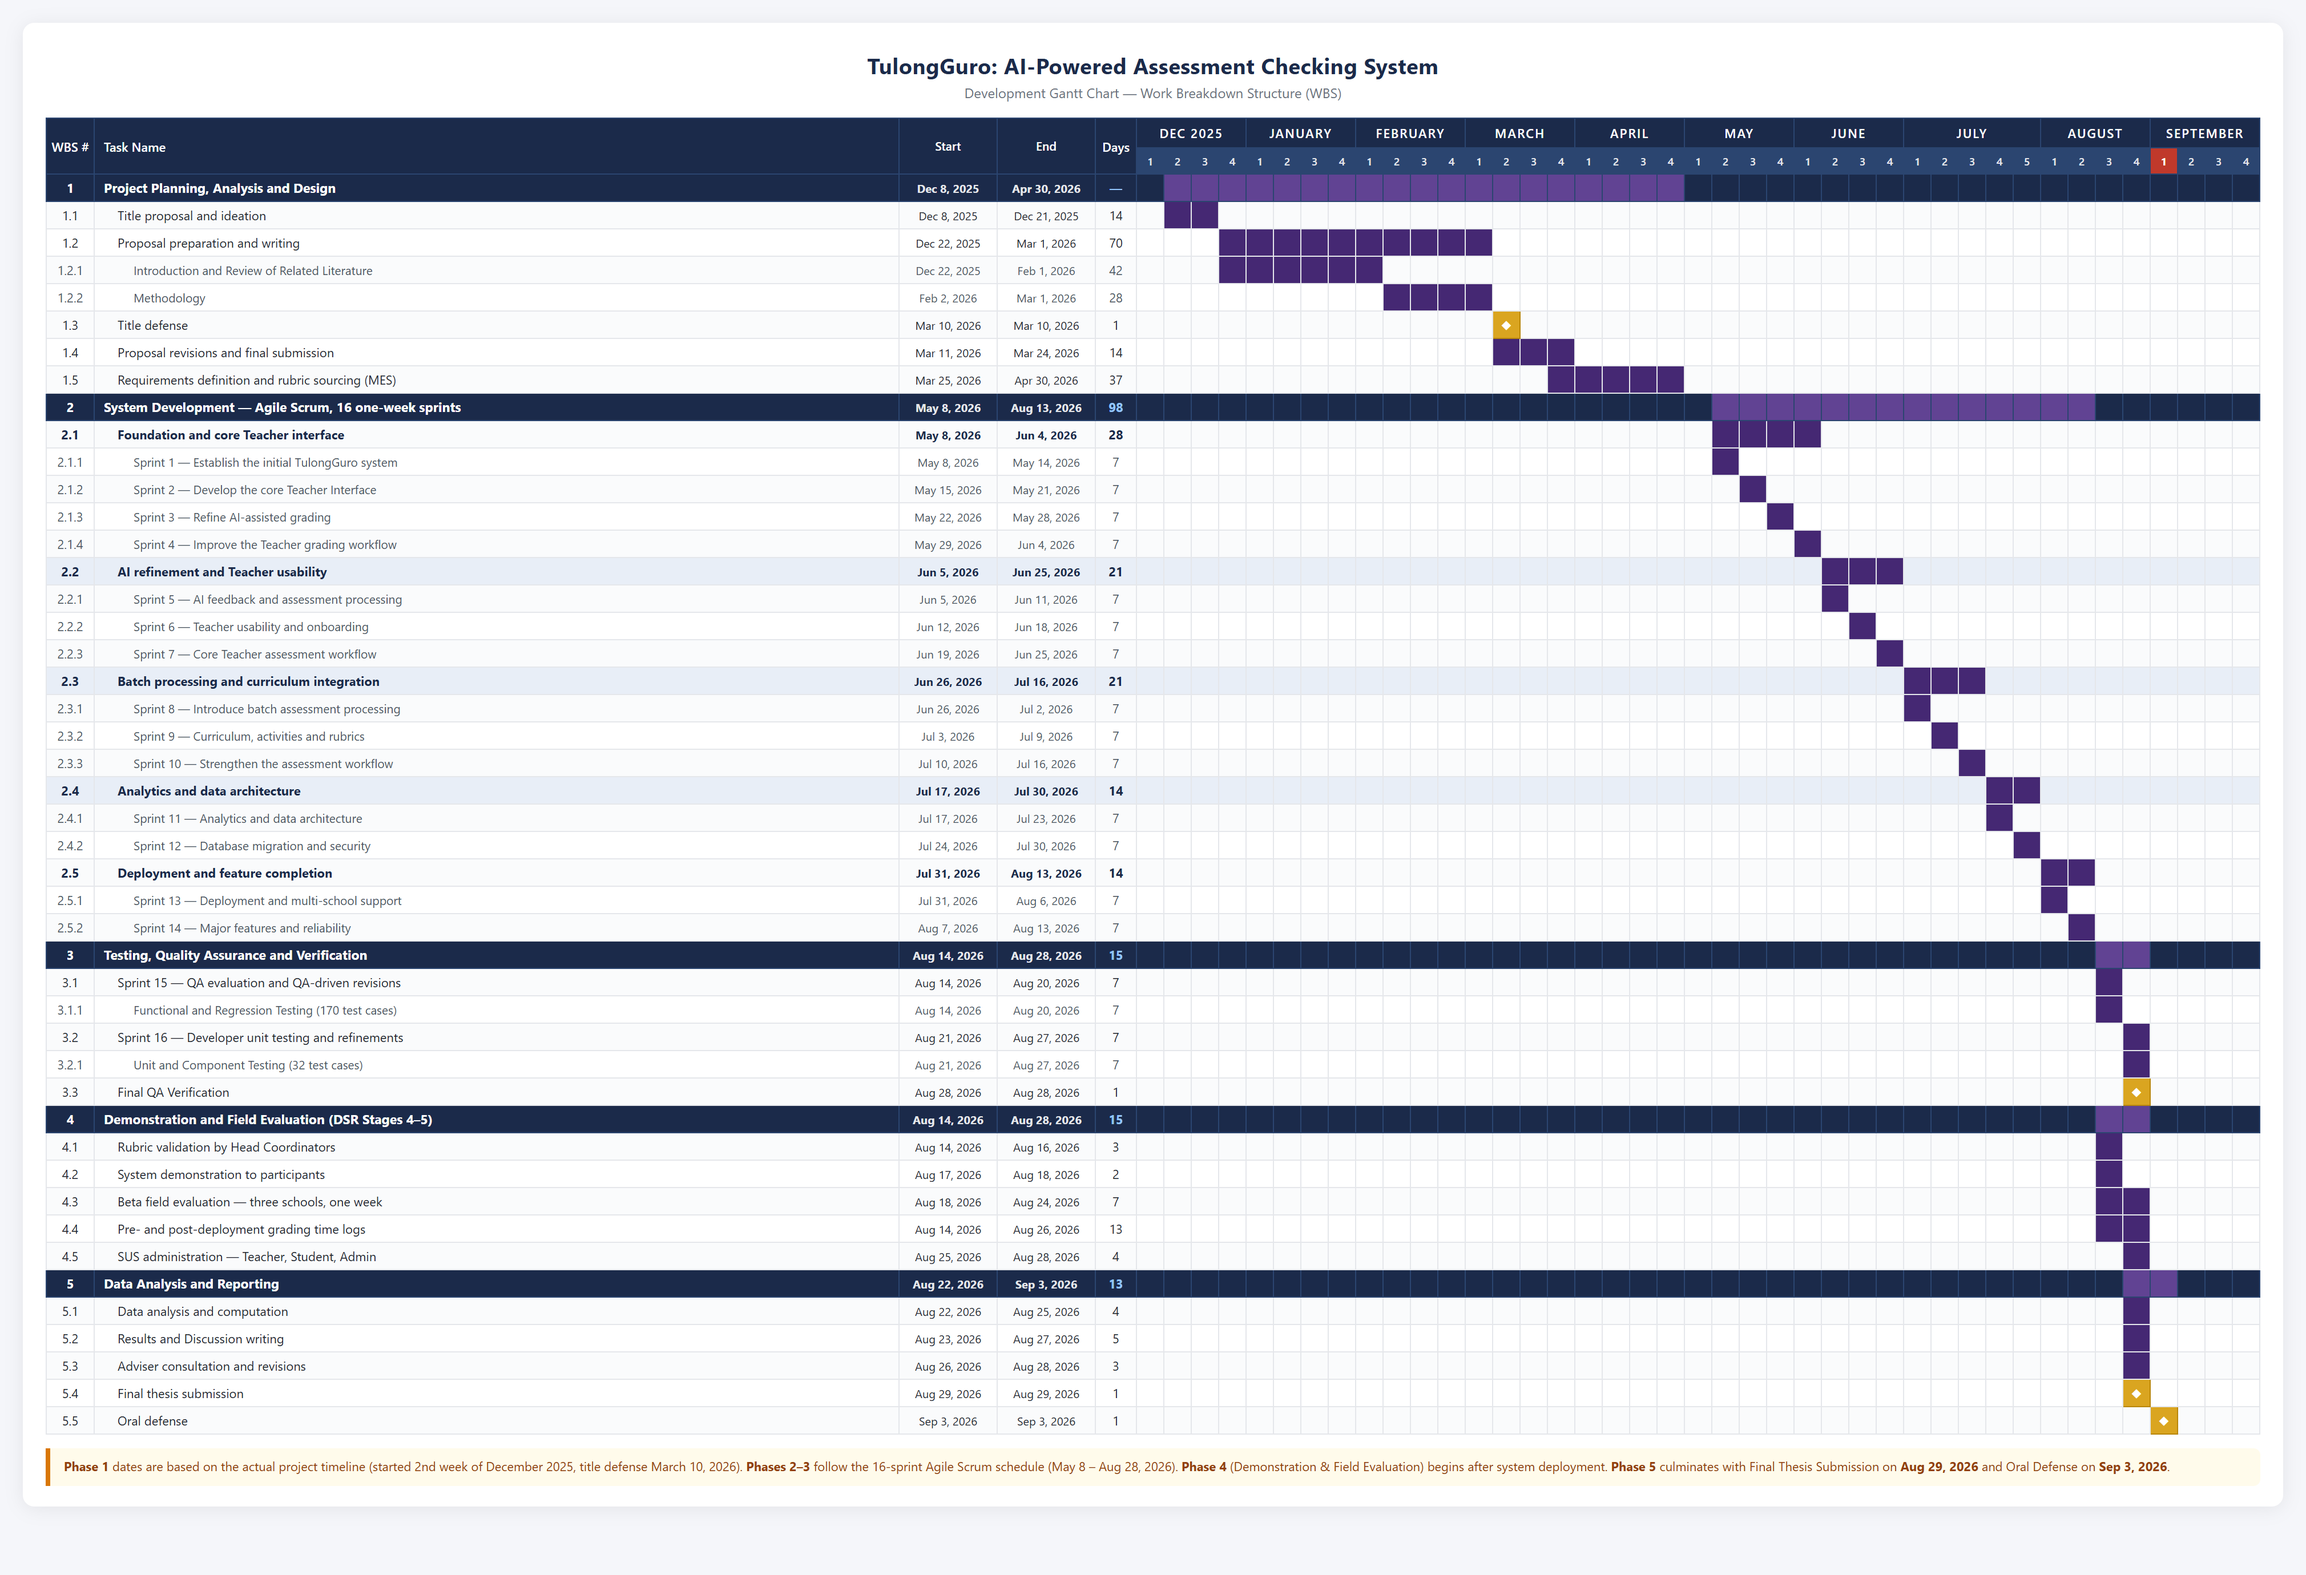
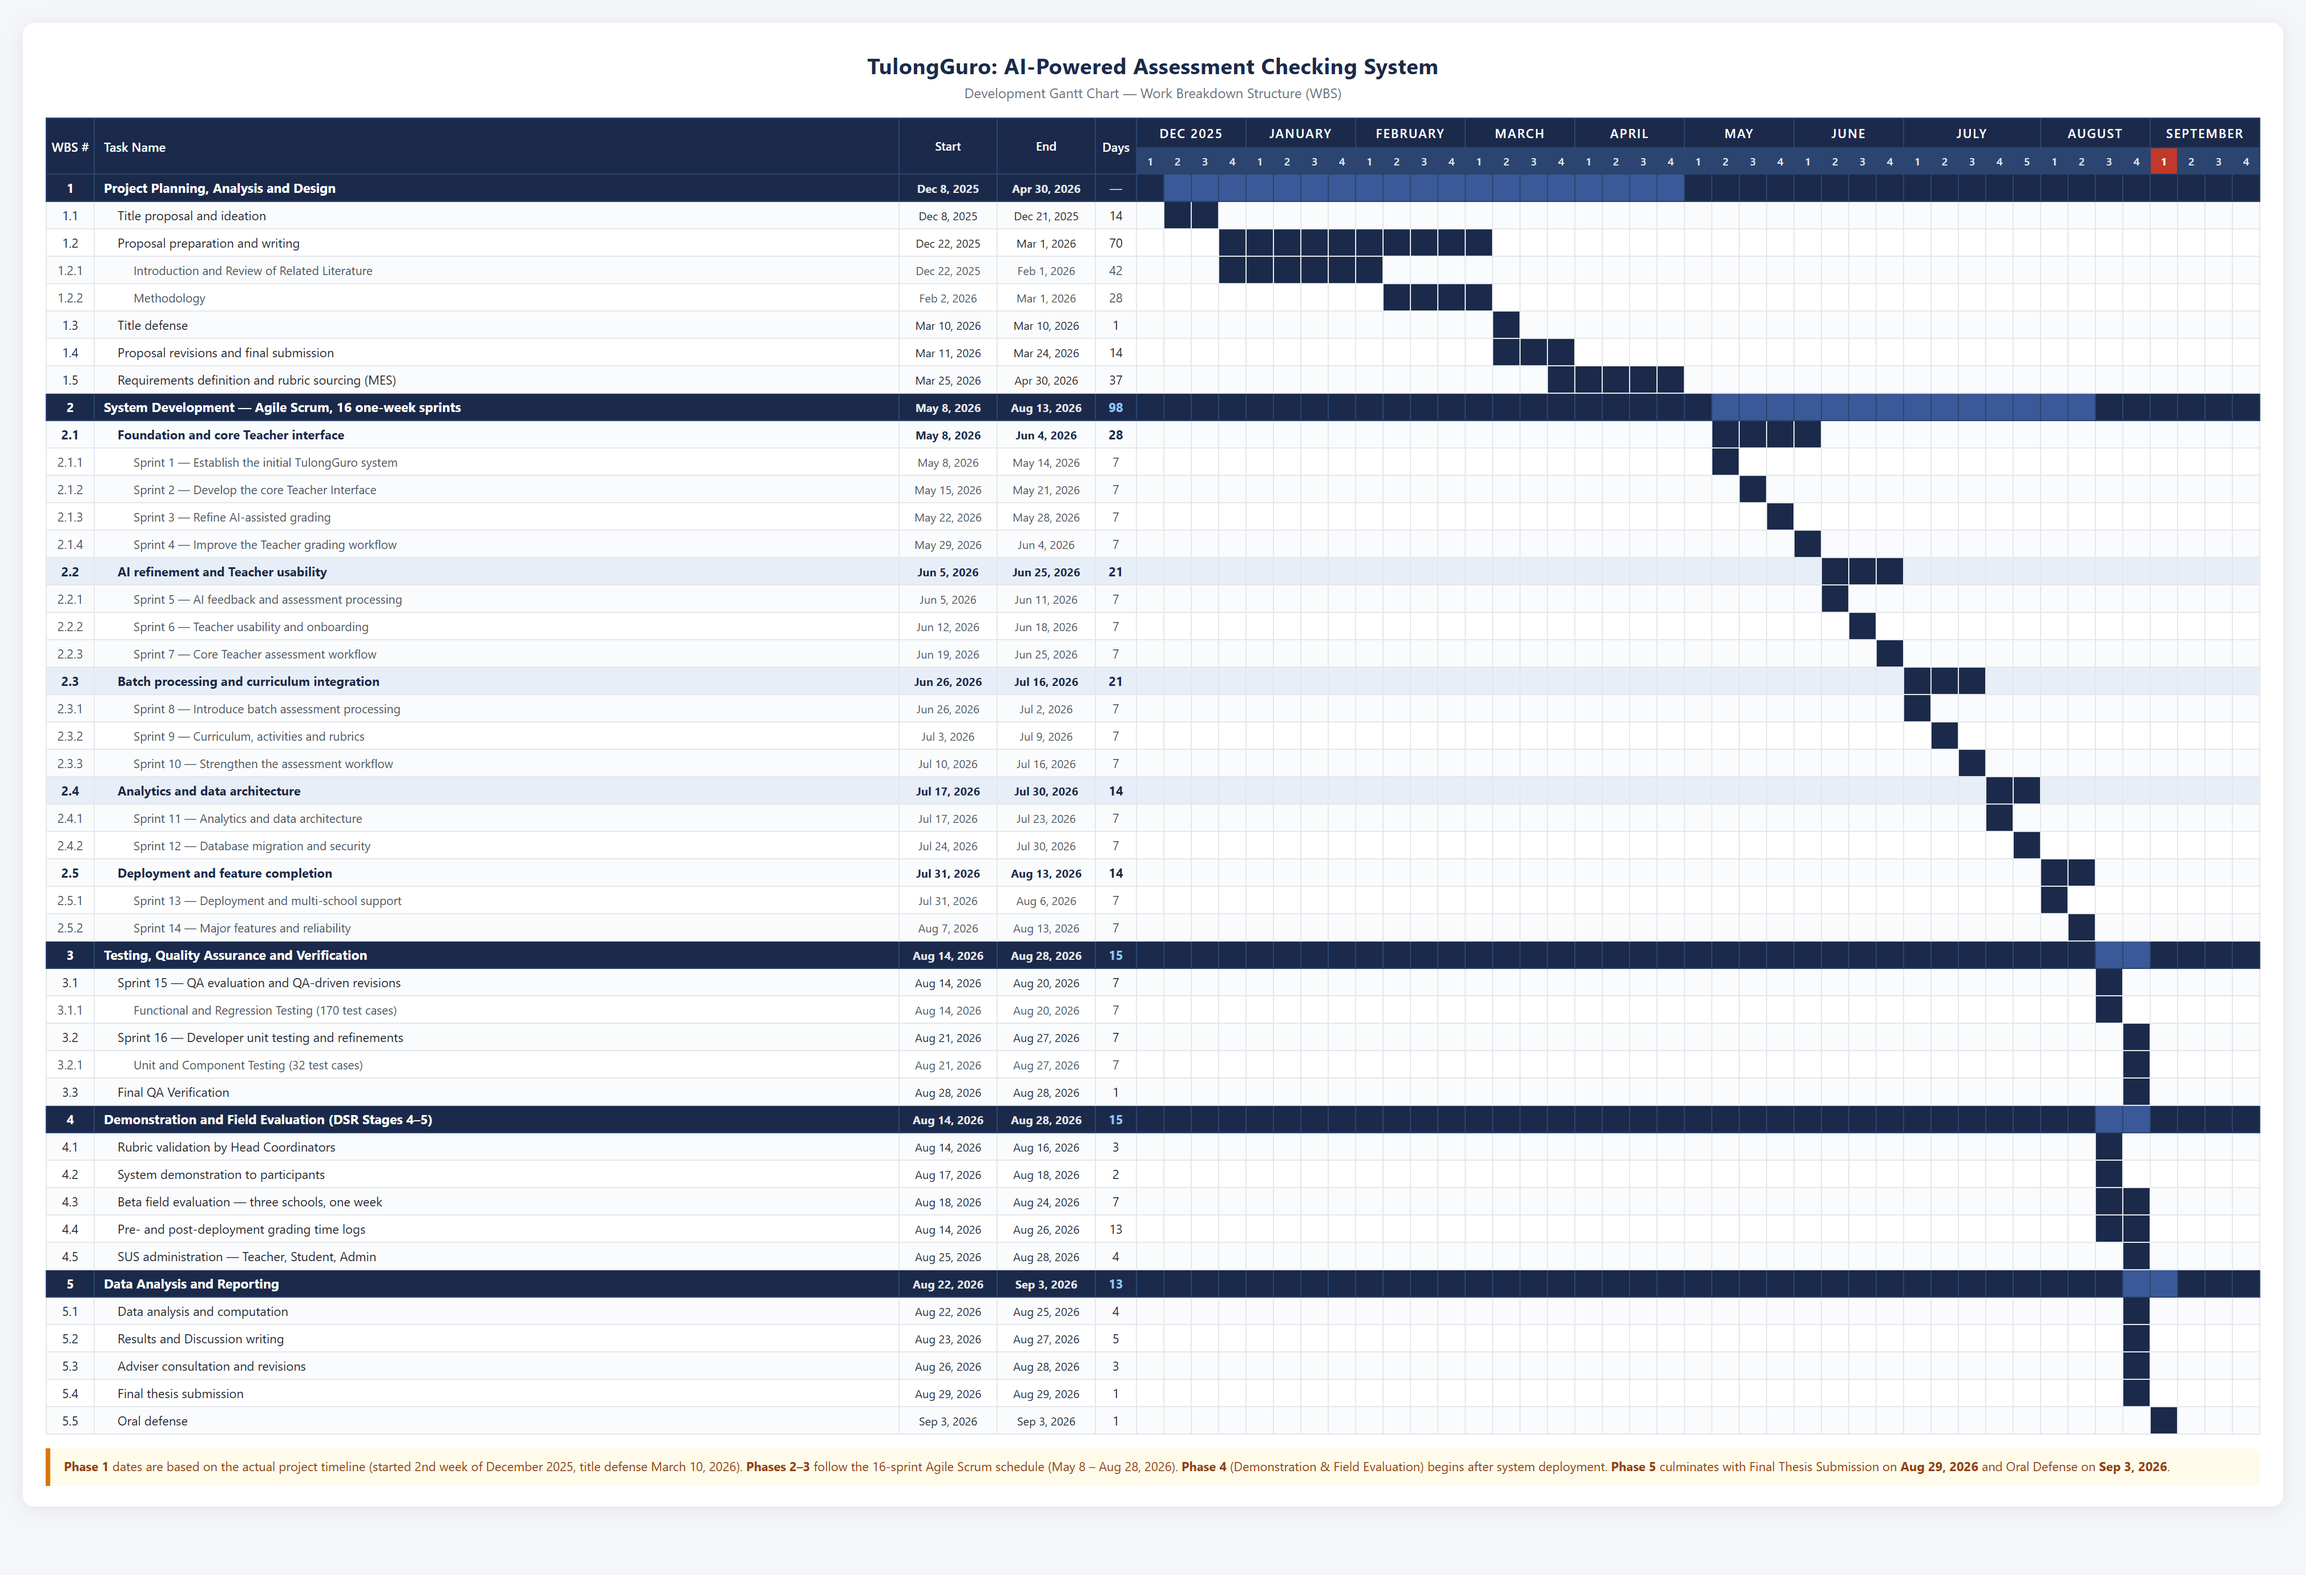
updated gantt

diff --git a/docs/gantt-chart.html b/docs/gantt-chart.html
@@ -53,17 +53,8 @@ tbody tr:not(.phase):hover td { background:#EDF2F7; }
 tbody tr.section:hover td { background:#DCE5F5; }
 
 /* Bar cells */
-td.bar-main { background:#452873 !important; } /* Consistent purple-navy matching reference image */
-tr.phase td.bar-main { background:#614393 !important; } /* slightly lighter for dark bg on phase rows */
-
-/* Milestone */
-td.milestone-cell {
-  background:#DAA520 !important; position:relative; border-color:#B8860B !important;
-}
-td.milestone-cell::after {
-  content:'◆'; color:#fff; font-size:12px;
-  position:absolute; top:50%; left:50%; transform:translate(-50%,-50%);
-}
+td.bar-main { background:#1B2A4A !important; } /* Consistent dark blue matching reference image */
+tr.phase td.bar-main { background:#3B5998 !important; } /* lighter blue for dark bg on phase rows */
 
 /* Date & days */
 td.date-cell { font-size:10px; color:#4B5563; white-space:nowrap; }
@@ -395,11 +386,7 @@ function render() {
     for (let c = 0; c < TOTAL_COLS; c++) {
       const td = document.createElement('td');
       if (colSet.has(c)) {
-        if (t.milestone && c === Math.max(...colSet)) {
-          td.className = 'milestone-cell';
-        } else {
-          td.className = barClass;
-        }
+        td.className = barClass;
       }
       tr.appendChild(td);
     }
